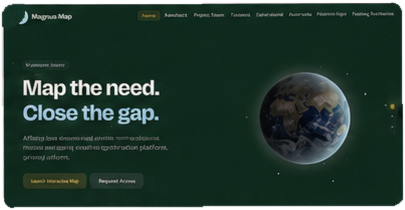
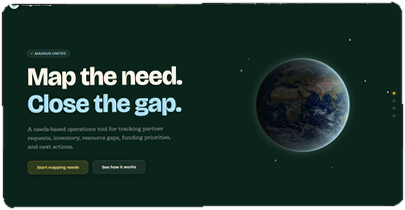
Real site screenshots on the CueLens, Brain Age, and Magnus Map cards
The three live-site screenshots replace the mock artwork, rendered into
each card's exact rotated rounded-rect geometry at the same size and
position. PROJECTS entries now carry their full image paths so the
single-file preview build can inline the card art (the concatenated
paths were slipping past it).

Claude-Session: https://claude.ai/code/session_01HwHnB6ZvdvjAvLg4jAqUHh

diff --git a/index.html b/index.html
@@ -728,19 +728,19 @@ const WORK_LAYOUT = {
   "wk-where":   {x: 586, y: 886, w:  500, h:  48, z: 2},
 };
 const PROJECTS = [
-  {id:"cuelens",    card:{x: 290, y: 219, w: 450, h: 263}, pin:{x: 308, y: 222},
+  {id:"cuelens",    img:"assets/work/card-cuelens.png",    card:{x: 290, y: 219, w: 450, h: 263}, pin:{x: 308, y: 222},
    label:{x: 417, y: 462, w: 200, h: 88},
    title:"CueLens", desc:"AI-powered design analysis<br>to understand user intent."},
-  {id:"magnus",     card:{x: 873, y: 225, w: 456, h: 276}, pin:{x: 890, y: 230},
+  {id:"magnus",     img:"assets/work/card-magnus.png",     card:{x: 873, y: 225, w: 456, h: 276}, pin:{x: 890, y: 230},
    label:{x: 955, y: 462, w: 212, h: 90},
    title:"Magnus United<br>Website Redesign", desc:"Coming Soon"},
-  {id:"brainage",   card:{x: 231, y: 590, w: 349, h: 201}, pin:{x: 236, y: 593},
+  {id:"brainage",   img:"assets/work/card-brainage.png",   card:{x: 231, y: 590, w: 349, h: 201}, pin:{x: 236, y: 593},
    label:{x: 299, y: 782, w: 221, h: 86},
    title:"Brain Age Calculator", desc:"Quantifying brain wellness<br>using MRI and neuroscience."},
-  {id:"airesearch", card:{x: 634, y: 606, w: 318, h: 204}, pin:{x: 650, y: 602},
+  {id:"airesearch", img:"assets/work/card-airesearch.png", card:{x: 634, y: 606, w: 318, h: 204}, pin:{x: 650, y: 602},
    label:{x: 687, y: 787, w: 183, h: 70},
    title:"AI Research", desc:"Coming Soon"},
-  {id:"magnusmap",  card:{x:1010, y: 576, w: 405, h: 210}, pin:{x:1017, y: 585},
+  {id:"magnusmap",  img:"assets/work/card-magnusmap.png",  card:{x:1010, y: 576, w: 405, h: 210}, pin:{x:1017, y: 585},
    label:{x:1107, y: 776, w: 215, h: 86},
    title:"Magnus Map", desc:"Real-time geospatial mapping<br>and coordination platform."},
 ];
@@ -758,7 +758,7 @@ if (workCanvas) {
     card.className = "wk wk-card"; card.id = "wk-card-" + pr.id;
     Object.assign(card.style, {left:pr.card.x+"px", top:pr.card.y+"px",
       width:pr.card.w+"px", height:pr.card.h+"px", zIndex:1});
-    card.innerHTML = '<img src="assets/work/card-' + pr.id + '.png" alt="">';
+    card.innerHTML = '<img src="' + pr.img + '" alt="">';
     const pin = document.createElement("div");
     pin.className = "wk wk-pin"; pin.id = "wk-pin-" + pr.id;
     Object.assign(pin.style, {left:(pr.pin.x-14.5)+"px", top:(pr.pin.y-14.5)+"px",
